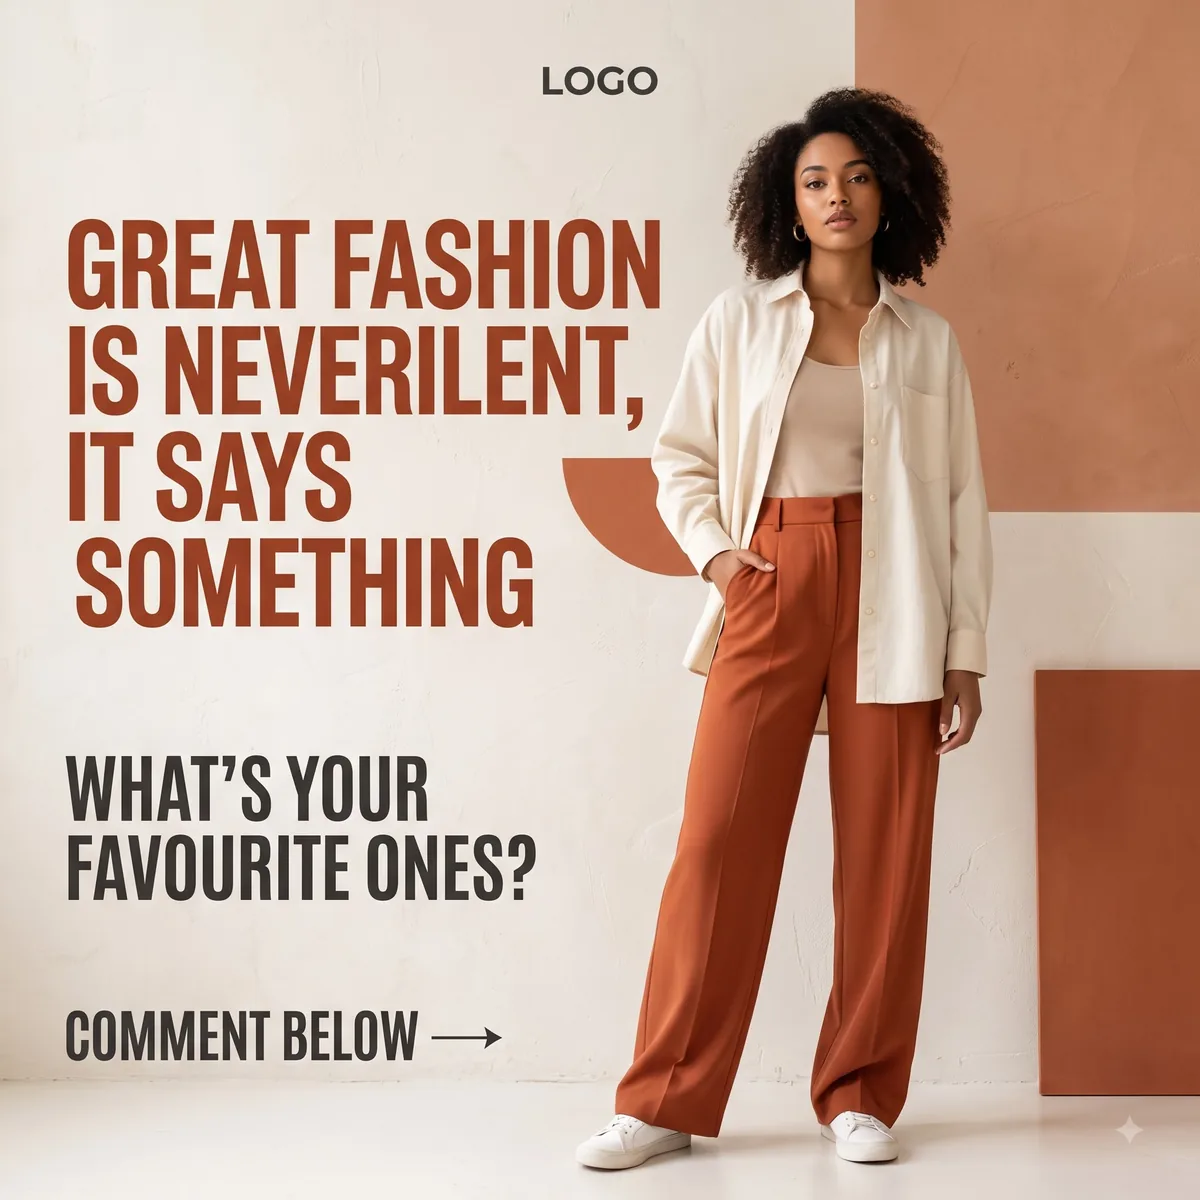
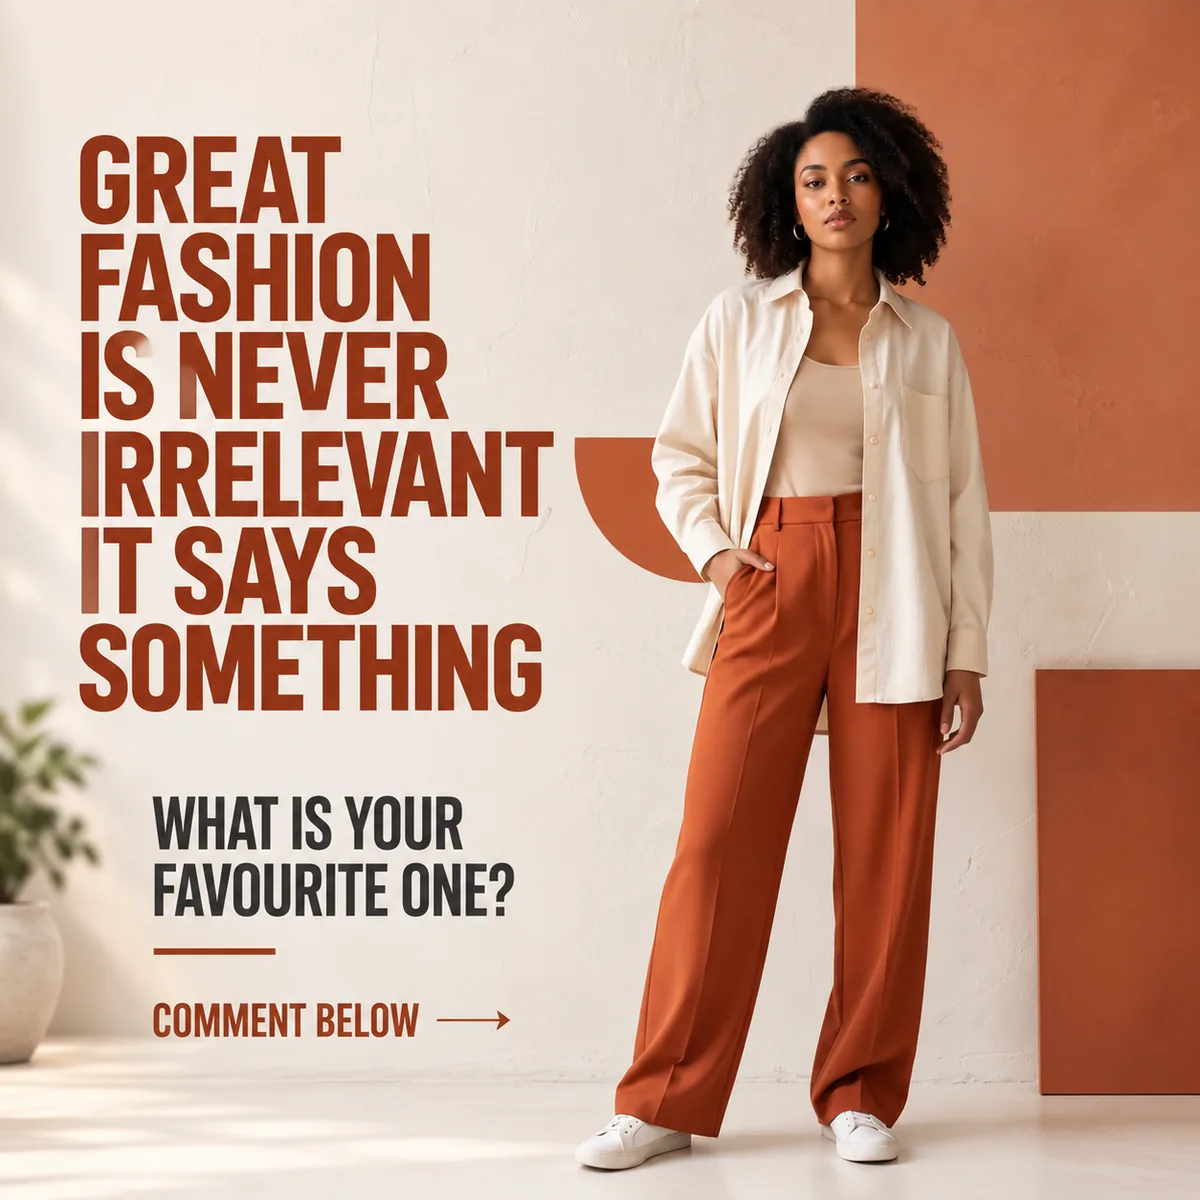
Swap in the two reworked creatives
Both replace tiles that were the weakest things in the gallery.

The fashion post is the one worth naming. The version it replaces read
"GREAT FASHION IS NEVERILENT" — generated text that had come apart — asked
"WHAT'S YOUR FAVOURITE ONES?", and still carried an unreplaced "LOGO" in the
corner. On a page whose argument is that this work is not AI slop, that tile
was the counter-argument. The new one fixes all three.

The Google Ads tile is now the creative the student built around their
account rather than the raw screenshot of it. Same live numbers — 10.3K
impressions, ₹20.9K, 40 conversions — but inside a designed piece, so it
reads as design work in a gallery of design work while still carrying the
proof that the ad budget in the fee gets spent on something real.

Worth flagging, since it is a judgement rather than a fix: an unretouched
dashboard is evidence in a way a poster is not, and that tile now makes its
point through a frame. If the raw screenshot is wanted back alongside this
one, it belongs in Outcomes rather than here — two of eight gallery tiles on
the same campaign would cost the section its breadth.

Both resized to a 1200px cap and converted: 3.3MB of PNG became 164KB. The
retired google-ads-live.webp is gone and 404s.

Verified: every asset serves 200, no broken images, accessibility checklist
passes, Lighthouse mobile perf median 95.

Claude-Session: https://claude.ai/code/session_01UfvVXkWqjrFNB9YSapbjNo

diff --git a/lib/content.ts b/lib/content.ts
@@ -283,10 +283,11 @@ export const WORK: WorkItem[] = [
   // owner's explicit instruction after that was raised. The `kind` says "spec"
   // so the page never implies it was commissioned work.
   { title: 'Pringles, brand film', kind: 'Brand film (spec)', student: '', src: '/work/film-pringles.mp4', poster: '/work/film-pringles.jpg', type: 'video', ratio: '16/9' },
-  // A student's own Google Ads account, confirmed as theirs. The one artefact
-  // here that is not a creative: it is the evidence that the ad budget in the
-  // fee actually gets spent on a live campaign.
-  { title: 'A live Google Ads account', kind: 'Campaign management', student: '', src: '/work/google-ads-live.webp', ratio: '4/5' },
+  // The student's own live Google Ads account, confirmed as theirs, now inside
+  // the creative they built around it — so the tile carries the proof that the
+  // ad budget in the fee gets spent on something real and reads as design work
+  // rather than a screenshot.
+  { title: 'Turn clicks into customers', kind: 'Google Ads creative', student: '', src: '/work/google-ads-creative.webp', ratio: '4/5' },
   { title: 'Aurelia, launch creative', kind: 'Real estate ad', student: '', src: '/work/realestate-aurelia.webp', ratio: '9/16' },
   { title: 'AI marketing, key visual', kind: 'Campaign poster', student: '', src: '/work/campaign-poster.webp', ratio: '4/5' },
   { title: 'Fashion label, engagement post', kind: 'Social creative', student: '', src: '/work/fashion-social-post.webp', ratio: '1/1' },
